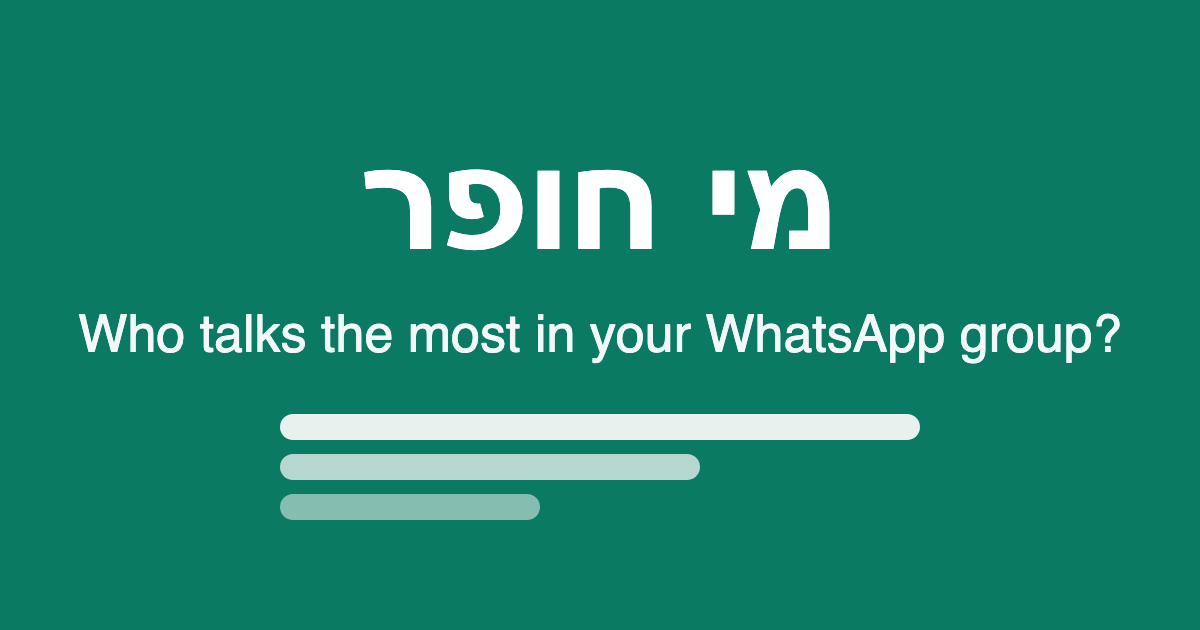
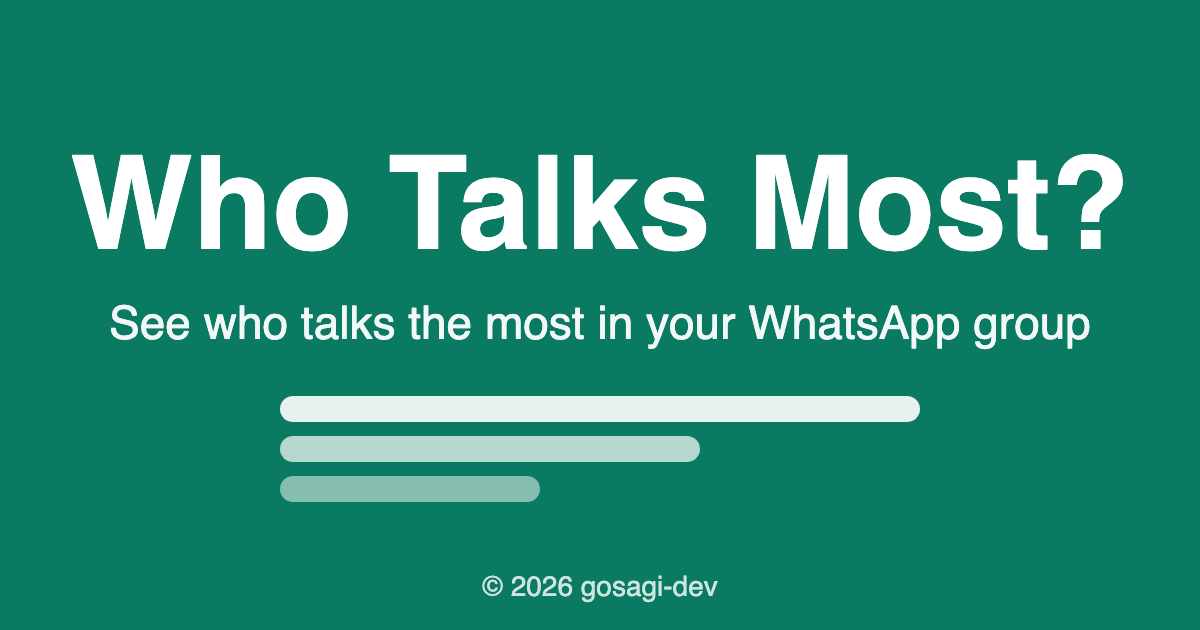
Add files via upload

diff --git a/index.html b/index.html
@@ -6,7 +6,7 @@
 <meta name="theme-color" content="#0b7a62">
 <meta name="description" content="Upload a WhatsApp chat export and see who sent the most messages and who starts conversations. Runs entirely on your device.">
 <meta property="og:type" content="website">
-<meta property="og:title" content="מי חופר – WhatsApp Chat Stats">
+<meta property="og:title" content="Who Talks Most? – WhatsApp Chat Stats">
 <meta property="og:description" content="Upload a WhatsApp chat export and see who talks the most. Runs entirely on your device.">
 <meta property="og:url" content="https://gosagi-dev.github.io/whatsapp-chat-stats/">
 <meta property="og:image" content="https://gosagi-dev.github.io/whatsapp-chat-stats/og-image.png">
@@ -130,6 +130,7 @@ input[type=text]{font:inherit;color:var(--fg);background:var(--bg);border:1px so
     </div>
     <ol id="starts"></ol>
   </section>
+  <p class="mute" style="text-align:center">© 2026 gosagi-dev · MIT License</p>
 </main>
 <div id="imgBox" dir="ltr" hidden>
   <div class="imgCard">

diff --git a/README.md b/README.md
@@ -38,3 +38,7 @@ Everything runs in your browser. The chat file is never uploaded to any server.
 ## Run locally
 
 Open `index.html` in a browser. No build step is needed.
+
+## License
+
+MIT License. Copyright © 2026 gosagi-dev. See [LICENSE](LICENSE).
